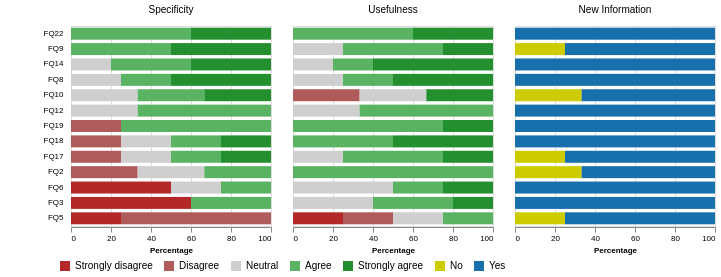
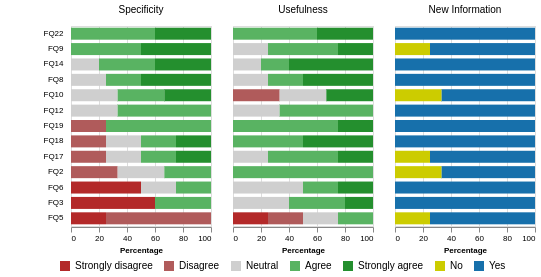
new figure

diff --git a/visualization/visualization_per_br.py b/visualization/visualization_per_br.py
@@ -49,7 +49,7 @@ def main(args):
             sort='ascending'
         ),
     ).properties(
-        width=200,
+        width=140,
         height=200
     ).facet(
         column=alt.Column("quality:N", title=None, sort=["Specificity", "Usefulness", "New Information"])
@@ -57,7 +57,7 @@ def main(args):
         labelFontSize=fontSize,
         titleFontSize=fontSize,
     ).configure_text(
-        fontSize=fontSize
+        fontSize=fontSize,
     )
     chart.show()
 
